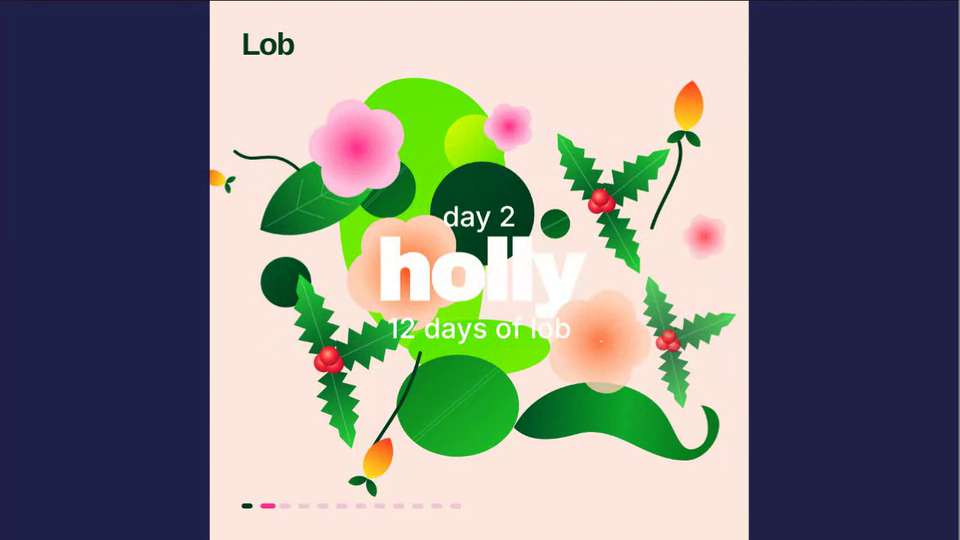
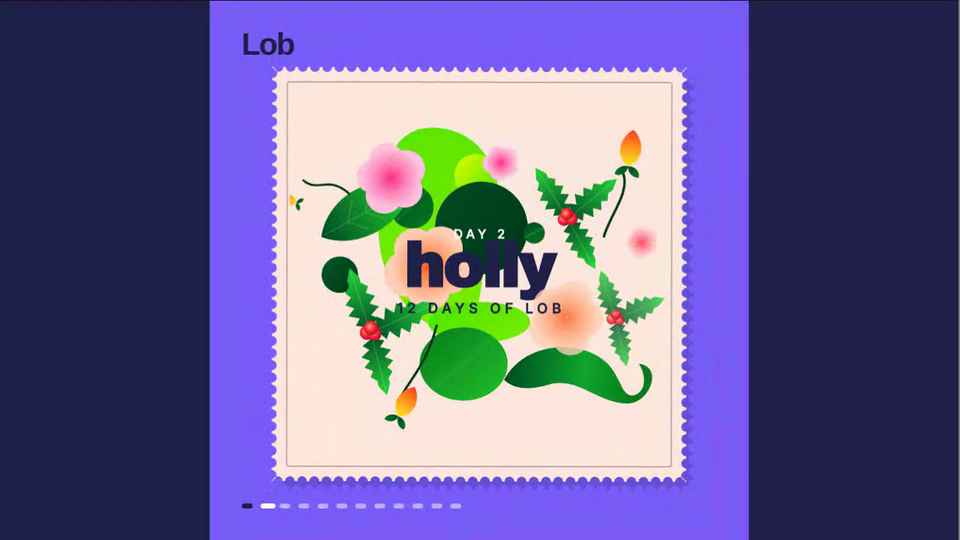
Lob 12 Days Advent: square stamp, alternating backgrounds, navy title (#636)
* Add Lob 12 Days Advent, a 1:1 advent calendar motion post

Claude-Session: https://claude.ai/code/session_01AHeBe1gGHXNgX6SWfG6dpU

* Lob 12 Days Advent: perforated holiday stamp illustrations in Lob pink and purple on blue, generous negative space

Claude-Session: https://claude.ai/code/session_01AHeBdxfESGkB61WPERPkmT

* Lob 12 Days Advent: bigger stamps, odometer number, fly-in and per-illustration motion, closer stamp frames

Claude-Session: https://claude.ai/code/session_01AHeBdxfESGkB61WPERPkmT

* Lob 12 Days Advent: two-pass stamp rework, jagged tree, hatching, hollow snow rings, clean frame gaps, art fitted to frames

Claude-Session: https://claude.ai/code/session_01AHeBdxfESGkB61WPERPkmT

* Lob 12 Days Advent: botanical Christmas bouquet in the Our Planet Week style

Claude-Session: https://claude.ai/code/session_01AHeBdxfESGkB61WPERPkmT

* Lob 12 Days Advent: bouquet on a square stamp, alternating green/purple/pink/orange backgrounds, navy title, spaced caps labels

Claude-Session: https://claude.ai/code/session_01AHeBdxfESGkB61WPERPkmT

---------

diff --git a/lob-12-days/index.html b/lob-12-days/index.html
@@ -4,7 +4,7 @@
 <meta charset="utf-8">
 <meta name="viewport" content="width=device-width, initial-scale=1, viewport-fit=cover">
 <title>Lob 12 Days Advent</title>
-<meta name="description" content="A 1:1 social motion post for the 12 Days of Lob advent calendar: a dense airbrushed botanical bouquet of Christmas plants grows in around heavy white type for each day.">
+<meta name="description" content="A 1:1 social motion post for the 12 Days of Lob advent calendar: a dense airbrushed botanical bouquet of Christmas plants on a square perforated stamp, over a green, purple, pink and orange background that changes each day.">
 <link rel="preconnect" href="https://fonts.googleapis.com"><link href="https://fonts.googleapis.com/css2?family=Archivo+Black&family=Inter:wght@500&display=swap" rel="stylesheet">
 <style>
 :root{--sans:"Inter","Helvetica Neue",Helvetica,Arial,sans-serif;--navy:#1F2149;--pink:#F8E0F9;--mag:#B042C2;--btn:#4534F2}
@@ -17,7 +17,7 @@ nav.back a{color:#8d8d8d;text-decoration:none}nav.back a:hover,nav.back a:focus-
 nav.back span{color:#6e6e6e}nav.back b{font-weight:500;color:#fff;overflow:hidden;text-overflow:ellipsis}
 @media(max-width:640px){nav.back{padding:0 16px}nav.back .x{display:none}}
 .wrap{flex:1;min-height:0;display:flex;align-items:center;justify-content:center;padding:12px}
-canvas{display:block;aspect-ratio:1/1;width:min(100%,calc(100dvh - 49px - 120px));max-width:100%;height:auto;background:#FCE8DF}
+canvas{display:block;aspect-ratio:1/1;width:min(100%,calc(100dvh - 49px - 120px));max-width:100%;height:auto;background:#27C45A}
 .ctl{flex:none;display:flex;flex-wrap:wrap;gap:10px;align-items:center;justify-content:center;padding:10px 16px 16px}
 .days{display:flex;flex-wrap:wrap;gap:6px;justify-content:center}
 .days button,.ctl .b{min-width:34px;height:34px;padding:0 12px;border-radius:99px;border:1px solid rgba(255,255,255,.25);background:none;cursor:pointer;font-weight:600}
@@ -111,7 +111,7 @@ function items(){const H=hero[day],pl=pals[day],mx=day===11,hf=(k)=>mx?[poin,hol
   [()=>blob(),610,440,-.12,.0,.01,0],
   [()=>{x.scale(1.5,.6);orb(110,'#4CE600','#7DF000')},750,745,0,.08,.01,0],
   [()=>orb(70,'#E8FF00','#4CE600'),740,272,0,.05,.02,0],
-  [()=>orb(122,'#004C25','#00391B'),757,432,0,.1,.01,0],
+  [()=>orb(150,'#004C25','#00391B'),757,440,0,.1,.01,0],
   [()=>orb(60,'#005A2A','#00391B'),300,592,0,.1,.01,0],
   [()=>orb(70,'#004C25','#0A7A1E',true),532,372,0,.15,.01,0],
   [()=>orb(34,'#004C25','#0A7A1E',true),927,456,.3,.2,.02,0],
@@ -137,20 +137,36 @@ function sceneDraw(front,gm){const its=items(),ex=gm;
   its.forEach((it,i)=>{if(!!it[6]!==front)return;const pp=Math.max(.0001,eob(cl((lt-.1-it[4]*1.6)/.6))*ex);
     x.save();x.translate(it[1],it[2]);x.rotate(it[3]+it[5]*Math.sin(T*1.3+i)*1.0+(1-cl((lt-.1-it[4]*1.6)/.6))*-.5);const br=1+.018*Math.sin(T*2+i*1.7);x.scale(pp*br,pp*br);
     if(front)x.globalAlpha=.8;it[0]();x.restore()})}
+const NAVY='#1F2149',BGS=['#27C45A','#7A5CFA','#FF8FC8','#FF7A2E'];
+function mixc(a,b,k){const p=h=>[1,3,5].map(i=>parseInt(h.slice(i,i+2),16)),A=p(a),B=p(b);return'rgb('+A.map((v,i)=>Math.round(v+(B[i]-v)*k)).join(',')+')'}
+function stampPath(w,h,n,m){
+  const edge=(x0,y0,x1,y1,nx,ny,cnt)=>{for(let i=0;i<cnt;i++){const ax=x0+(x1-x0)*i/cnt,ay=y0+(y1-y0)*i/cnt,bx=x0+(x1-x0)*(i+1)/cnt,by=y0+(y1-y0)*(i+1)/cnt,cx=(ax+bx)/2,cy=(ay+by)/2,rr=Math.hypot(bx-ax,by-ay)/2*.8;
+    const ta=Math.atan2(ay-cy,ax-cx),tb=Math.atan2(by-cy,bx-cx),tn=Math.atan2(ny,nx);const cw=((tn-ta+Math.PI*2)%(Math.PI*2))<Math.PI;x.lineTo(ax,ay);x.lineTo(cx+Math.cos(ta)*rr,cy+Math.sin(ta)*rr);x.arc(cx,cy,rr,ta,tb,!cw)}};
+  x.beginPath();x.moveTo(-w/2,-h/2);edge(-w/2,-h/2,w/2,-h/2,0,1,n);edge(w/2,-h/2,w/2,h/2,-1,0,m);edge(w/2,h/2,-w/2,h/2,0,-1,n);edge(-w/2,h/2,-w/2,-h/2,1,0,m);x.closePath()}
 function bigText(str,y,maxW,ex){const f='900 200px "Archivo Black","Arial Black",Arial,sans-serif';x.save();x.font=f;x.letterSpacing='-8px';x.textAlign='left';x.textBaseline='alphabetic';
-  let w=x.measureText(str).width,sz=Math.min(170,200*maxW/w);x.font=f.replace('200px',sz+'px');x.letterSpacing=(-.04*sz)+'px';
+  let w=x.measureText(str).width,sz=Math.min(124,200*maxW/w);x.font=f.replace('200px',sz+'px');x.letterSpacing=(-.04*sz)+'px';
   const cw=[...str].map(c=>x.measureText(c).width),tot=cw.reduce((a,b)=>a+b,0);let cx=540-tot/2;
-  [...str].forEach((c,i)=>{const pp=eob(cl((lt-.5-i*.045)/.5))*ex;x.save();x.globalAlpha=cl(pp*1.4);x.translate(cx,y+(1-pp)*90);x.fillStyle='#fff';x.fillText(c,0,0);x.restore();cx+=cw[i]});x.restore()}
-function smallText(str,y,size,delay,ex){const p=eio(cl((lt-delay)/.4))*ex;x.save();x.globalAlpha=p;x.font='500 '+size+'px "Inter",Arial,sans-serif';x.letterSpacing='0px';x.textAlign='center';x.fillStyle='#fff';x.fillText(str,540,y+(1-p)*24);x.restore()}
+  [...str].forEach((c,i)=>{const pp=eob(cl((lt-.5-i*.045)/.5))*ex;x.save();x.globalAlpha=cl(pp*1.4);x.translate(cx,y+(1-pp)*70);x.fillStyle=NAVY;x.fillText(c,0,0);x.restore();cx+=cw[i]});x.restore()}
+function smallText(str,y,size,delay,ex,col){const p=eio(cl((lt-delay)/.4))*ex,ls=size*.3;x.save();x.globalAlpha=p;x.font='700 '+size+'px "Inter",Arial,sans-serif';x.letterSpacing=ls+'px';x.textAlign='center';x.fillStyle=col;x.fillText(str.toUpperCase(),540+ls/2,y+(1-p)*18);x.restore()}
 function draw(){
-  x.setTransform(1,0,0,1,0,0);x.clearRect(0,0,S,S);x.fillStyle=CREAM;x.fillRect(0,0,S,S);
-  const ex=1-eio(cl((lt-(D-.7))/.5)),flip=1;
-  const scene=front=>{x.save();x.translate(540,562);x.scale(.86*flip,.86);x.translate(-750,-590);sceneDraw(front,ex);x.restore()};
+  x.setTransform(1,0,0,1,0,0);x.clearRect(0,0,S,S);
+  x.fillStyle=mixc(BGS[(day+3)%4],BGS[day%4],eio(cl(lt/.5)));x.fillRect(0,0,S,S);
+  const ex=1-eio(cl((lt-(D-.7))/.5));
+  /* square perforated stamp the bouquet sits on */
+  const W=830,pop=Math.max(.0001,eob(cl(lt/.6))),sk2=1+.012*Math.sin(T*1.4);
+  x.save();x.translate(540,548);x.scale(pop*sk2,pop*sk2);x.rotate((1-pop)*-.2+Math.sin(T*1.2)*.004);
+  x.save();x.translate(14,16);stampPath(W,W,34,34);x.fillStyle='rgba(31,33,73,.2)';x.fill();x.restore();
+  stampPath(W,W,34,34);x.fillStyle=CREAM;x.fill();
+  x.beginPath();x.roundRect(-W/2+30,-W/2+30,W-60,W-60,4);x.strokeStyle='rgba(31,33,73,.35)';x.lineWidth=2.5;x.stroke();
+  x.beginPath();x.roundRect(-W/2+36,-W/2+36,W-72,W-72,2);x.clip();
+  x.translate(-540,-548);
+  const scene=front=>{x.save();x.translate(540,548);x.scale(.62,.62);x.translate(-750,-590);sceneDraw(front,ex);x.restore()};
   scene(false);
-  bigText(titles[day].toLowerCase(),598,610,ex);
-  scene(true);smallText('day '+(day+1),452,56,.4,ex);smallText('12 days of lob',676,56,.9,ex);
-  txt('Lob',64,108,62,DG,{ls:-3});
-  for(let i=0;i<12;i++){const cur=i===day;pill(64+i*38,1012,cur?30:22,10,i<day?DG:cur?'#FF2D8B':'#F2C6D6')}
+  bigText(titles[day].toLowerCase(),572,440,ex);
+  scene(true);smallText('day '+(day+1),476,25,.4,ex,'#fff');smallText('12 days of lob',626,28,.9,ex,NAVY);
+  x.restore();
+  txt('Lob',64,108,62,NAVY,{ls:-3});
+  for(let i=0;i<12;i++){const cur=i===day;pill(64+i*38,1012,cur?30:22,10,i<day?NAVY:cur?'#fff':'rgba(255,255,255,.5)')}
 }
 
 /* ---------- loop ---------- */
